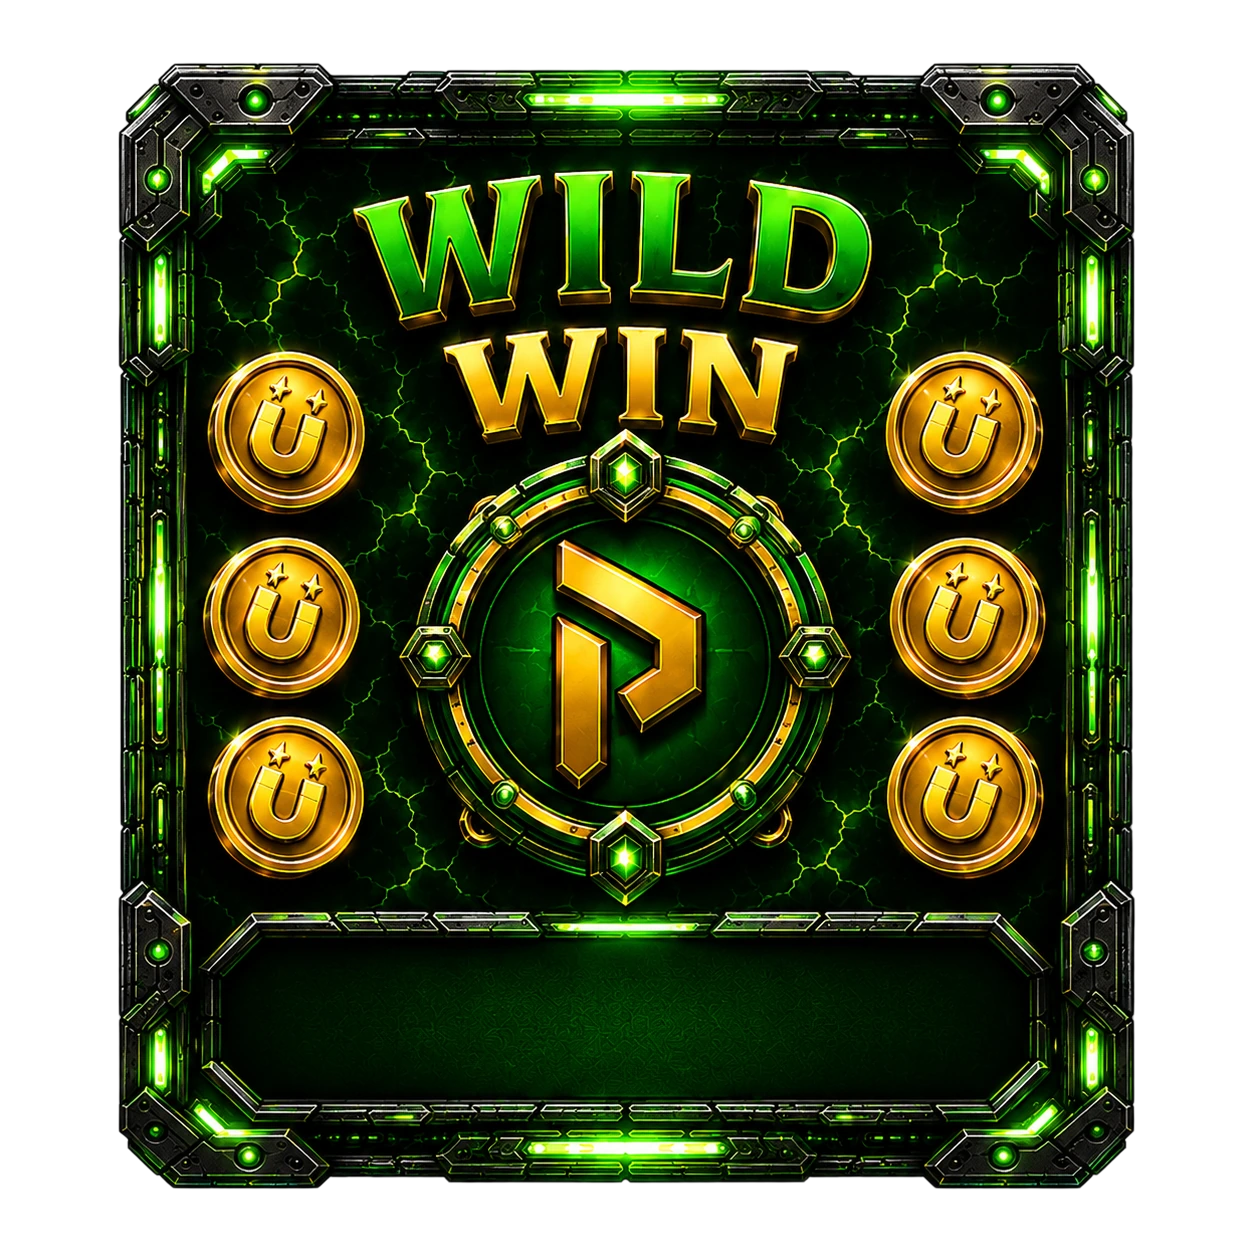
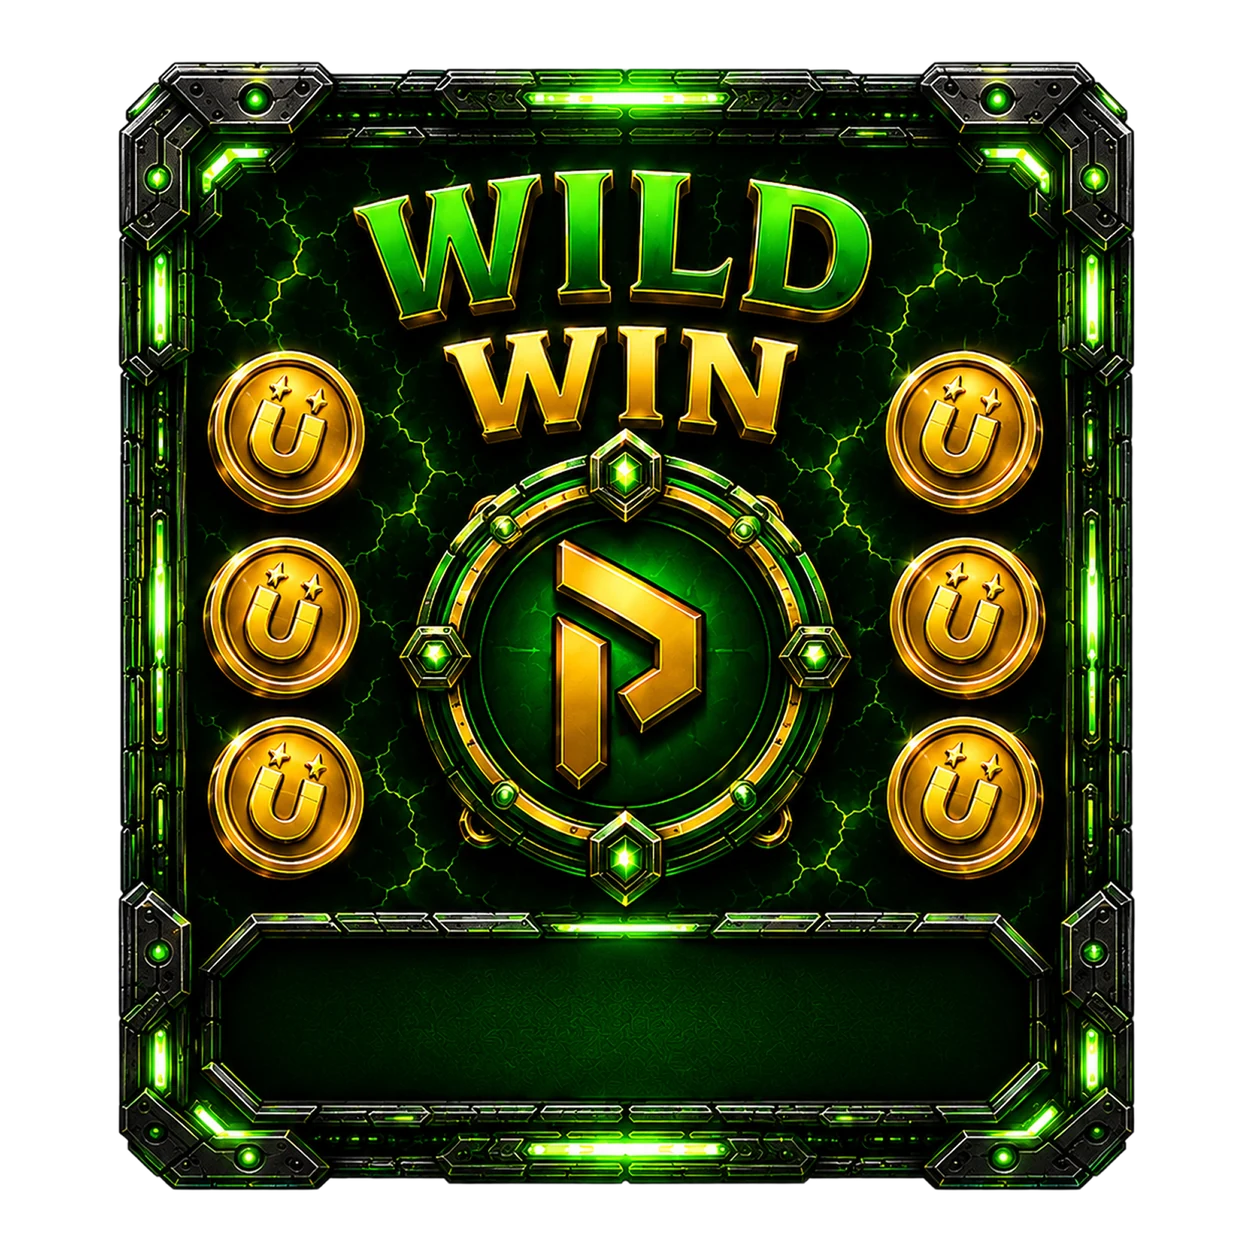
fix win screens

diff --git a/apps/magnetic/src/components/Win.svelte b/apps/magnetic/src/components/Win.svelte
@@ -23,11 +23,24 @@
 
 	const context = getContext();
 
+	// How long a tiered win board lingers after its amount has finished counting up before it
+	// closes itself. The board used to wait for a press indefinitely, which stalled an unattended
+	// autoplay run on every big win. Armed only once the counting has SETTLED, so the final number
+	// is always fully readable first; a press still dismisses immediately.
+	const AUTO_DISMISS_MS = 3500;
+
+	// Turbo COMPRESSES the big-win presentation rather than skipping it — the board is the payoff
+	// moment, so it still plays, just at the pace turbo implies. Both halves scale by the same
+	// factor so the rhythm holds: the roll-up (presentDuration) and the dwell before auto-dismiss.
+	// A legendary win goes 5.5s + 3.5s = 9s -> 4.5s on turbo -> 2.7s on super turbo.
+	const turboSpeed = $derived(stateBet.isSuperTurbo ? 0.3 : stateBet.isTurbo ? 0.5 : 1);
+
 	let show = $state(false);
 	let amount = $state(0);
 	let winLevelData = $state<WinLevelData>();
 	let oncomplete = $state(() => {});
 	let boardClickHandled = false;
+	let dismissTimer = 0;
 	let isCountingUp = $state(false);
 	let shakeX = $state(0);
 	let shakeY = $state(0);
@@ -37,10 +50,34 @@
 	const boardLayout = $derived(context.stateGameDerived.boardLayout());
 	const mainLayout = $derived(context.stateLayoutDerived.mainLayout());
 
+	const clearDismissTimer = () => {
+		if (!dismissTimer) return;
+		clearTimeout(dismissTimer);
+		dismissTimer = 0;
+	};
+
+	// Single dismissal path for both the auto-dismiss timer and press-to-continue, so whichever
+	// fires first wins and the other is a no-op (`boardClickHandled` is reset per win).
+	const dismiss = () => {
+		clearDismissTimer();
+		if (boardClickHandled) return;
+		boardClickHandled = true;
+		oncomplete();
+	};
+
+	const scheduleAutoDismiss = () => {
+		clearDismissTimer();
+		dismissTimer = setTimeout(dismiss, AUTO_DISMISS_MS * turboSpeed) as unknown as number;
+	};
+
 	context.eventEmitter.subscribeOnMount({
 		winShow: () => (show = true),
-		winHide: () => (show = false),
+		winHide: () => {
+			show = false;
+			clearDismissTimer();
+		},
 		winUpdate: async (emitterEvent) => {
+			clearDismissTimer();
 			boardClickHandled = false;
 			amount = emitterEvent.amount;
 			winLevelData = emitterEvent.winLevelData;
@@ -49,6 +86,9 @@
 			isCountingUp = false;
 		},
 	});
+
+	// A pending timer would otherwise resolve a stale `oncomplete` after teardown.
+	$effect(() => clearDismissTimer);
 
 	// Continuous board shake — the popup never sits still: a low rumble the whole time it's up
 	// plus a sharp "electric jolt" every ~1.35s in a pseudo-random direction. Stronger while the
@@ -105,17 +145,22 @@
 	{#if winLevelData}
 		{@const isBigWin = winLevelData.type === 'big'}
 		{@const hasBoardAnimation = !!winLevelData?.animation}
+		<!-- Line wins (no board) collapse to a near-instant 400ms on turbo as before; board wins
+		     scale by turboSpeed, which is 1 when turbo is off — so the normal pace is unchanged. -->
 		{@const duration =
 			(stateBet.isTurbo || stateBet.isSuperTurbo) && !hasBoardAnimation
 				? Math.min(winLevelData.presentDuration, 400)
-				: winLevelData.presentDuration}
+				: winLevelData.presentDuration * turboSpeed}
 		{#key oncomplete}
 			<WinCountUpProvider
 				{amount}
 				{duration}
 				oncomplete={() => {
 					context.eventEmitter.broadcast({ type: 'soundStop', name: 'mag_win_001' });
-					if (!hasBoardAnimation) oncomplete();
+					// Fires when the roll-up finishes naturally AND when a press snaps it to the
+					// final value — either way the counting is over, so the dwell starts here.
+					if (hasBoardAnimation) scheduleAutoDismiss();
+					else oncomplete();
 				}}
 			>
 				{#snippet children({ countUpAmount, startCountUp, finishCountUp, countUpCompleted })}
@@ -179,13 +224,8 @@
 
 					<PressToContinue
 						onpress={() => {
-							if (!countUpCompleted) {
-								finishCountUp();
-							} else {
-								if (boardClickHandled) return;
-								boardClickHandled = true;
-								oncomplete();
-							}
+							if (!countUpCompleted) finishCountUp();
+							else dismiss();
 						}}
 					/>
 				{/snippet}

diff --git a/apps/magnetic/src/components/WinBoard.svelte b/apps/magnetic/src/components/WinBoard.svelte
@@ -36,20 +36,29 @@
 		maxOffY: number;
 	} = $props();
 
-	// Vertical centre of each board art's amount plaque, as a fraction of boardSize measured DOWN
-	// from the board centre — measured per art (the plaques sit at slightly different heights).
-	// Offset of the amount from the sprite centre, as a fraction of the sprite height. Each value is
-	// the MEASURED vertical centre of that art's dark plaque bay (the flat region between the top
-	// rail and the bottom ornament), not a hand-tuned guess — the bays do not sit at the same height
-	// across the six boards, so a single shared value leaves the amount high on some and low on
-	// others. Re-measure with scratchpad/bay.py if the art changes.
-	const TIER_TEXT_Y: Record<string, number> = {
-		sweetWinBoard: 0.324,
-		wildWinBoard: 0.313,
-		epicWinBoard: 0.379,
-		mythicWinBoard: 0.362,
-		legendaryWinBoard: 0.364,
+	// The amount plaque BAY of each board art — the flat dark region between the plaque's top rail
+	// and its bottom ornament — as fractions of the sprite box: `cy` is the bay's vertical centre
+	// measured DOWN from the sprite centre, `w`/`h` its extents. All MEASURED off the art (rows and
+	// columns whose 95th-percentile luminance stays low between the two bright rails), not hand
+	// tuned: the bays sit at different heights AND are different sizes across the boards, so a
+	// single shared value leaves the amount off-centre on some and undersized on all of them.
+	//
+	// The amount is sized FROM the bay rather than from a shared fraction of boardSize. The old
+	// shared 0.077 filled barely 60% of the shortest bay and less than half of the tallest, which
+	// left every board looking like it had an empty slot under the medallion.
+	const TIER_BAY: Record<string, { cy: number; w: number; h: number }> = {
+		sweetWinBoard: { cy: 0.324, w: 0.607, h: 0.126 },
+		wildWinBoard: { cy: 0.313, w: 0.608, h: 0.13 },
+		epicWinBoard: { cy: 0.379, w: 0.674, h: 0.104 },
+		mythicWinBoard: { cy: 0.361, w: 0.623, h: 0.108 },
+		legendaryWinBoard: { cy: 0.366, w: 0.631, h: 0.106 },
 	};
+	// Digits of IBM Plex Sans Condensed sit at cap height (~0.70 em), so a font size of ~1.0x the bay
+	// height fills roughly 70% of it — enough presence to read as the headline number with clear air
+	// above and below. The width cap insets slightly from the bay so the outline never touches the rails.
+	const BAY_FONT_K = 1.02;
+	const BAY_WIDTH_K = 0.94;
+	const DEFAULT_BAY = { cy: 0.37, w: 0.62, h: 0.11 };
 
 	// The 4 hex gems on the medallion ring of each board art (fractions of the sprite box,
 	// relative to the sprite centre, +y down) — measured per art; each gets a small pulsing
@@ -144,8 +153,9 @@
 		: displayedKey === 'mythicWinBoard' ? 0xa64dff
 		: 0xffb428 /* legendary + max win: gold */}
 	{@const fx = FRAME_FX[displayedKey] ?? { hx: 0.42, hy: 0.46, cy: 0 }}
-	{@const boardFont = isMax ? boardH * 0.062 : boardSize * 0.077}
-	{@const boardMaxW = isMax ? boardW * 0.4 : boardSize * 0.62}
+	{@const bay = TIER_BAY[displayedKey] ?? DEFAULT_BAY}
+	{@const boardFont = isMax ? boardH * 0.062 : boardSize * bay.h * BAY_FONT_K}
+	{@const boardMaxW = isMax ? boardW * 0.4 : boardSize * bay.w * BAY_WIDTH_K}
 	{@const fitScale = textSizes.width > boardMaxW ? boardMaxW / textSizes.width : 1}
 	<Container x={offX} y={offY} scale={pop.current}>
 		<!-- Soft ambient glow behind the board, tinted to the tier. -->
@@ -210,7 +220,7 @@
 		     bay between the top rail and the compass (the compass eats the bottom-centre). -->
 		<Container
 			x={isMax ? boardW * 0.015 : 0}
-			y={isMax ? boardH * 0.3005 : boardSize * (TIER_TEXT_Y[displayedKey] ?? 0.37)}
+			y={isMax ? boardH * 0.3005 : boardSize * bay.cy}
 			scale={fitScale}
 		>
 			<Text

diff --git a/apps/magnetic/src/game/assets.ts b/apps/magnetic/src/game/assets.ts
@@ -256,11 +256,11 @@ const assets = {
 	magnetWinTile: { type: 'sprite', src: './assets/components/ui/magnet_win.webp?v=20260709' },
 	squirrelWinTile: { type: 'sprite', src: './assets/components/symbols/magnetic/low/bolt_win.webp?v=20260709' },
 	// Win boards — preloaded so board escalation during count-up doesn't stall
-	sweetWinBoard:     { type: 'sprite', src: './assets/components/win_boards/sweet_win.webp?v=20260709' },
-	wildWinBoard:      { type: 'sprite', src: './assets/components/win_boards/big_win.webp?v=20260709' },
-	epicWinBoard:      { type: 'sprite', src: './assets/components/win_boards/epic_win.webp?v=20260728' },
-	mythicWinBoard:    { type: 'sprite', src: './assets/components/win_boards/mega_win.webp?v=20260709' },
-	legendaryWinBoard: { type: 'sprite', src: './assets/components/win_boards/max_win.webp?v=20260709' },
+	sweetWinBoard:     { type: 'sprite', src: './assets/components/win_boards/sweet_win.webp?v=20260730' },
+	wildWinBoard:      { type: 'sprite', src: './assets/components/win_boards/big_win.webp?v=20260730' },
+	epicWinBoard:      { type: 'sprite', src: './assets/components/win_boards/epic_win.webp?v=20260730' },
+	mythicWinBoard:    { type: 'sprite', src: './assets/components/win_boards/mega_win.webp?v=20260730' },
+	legendaryWinBoard: { type: 'sprite', src: './assets/components/win_boards/max_win.webp?v=20260730' },
 	// Special wide board for the 20000x max-win cap (Figma 4143-16513), 1535×1025
 	maxWinBoard:       { type: 'sprite', src: './assets/components/win_boards/max_win_screen.webp?v=20260709' },
 	goldFont: {

diff --git a/apps/magnetic/src/game/goldGradient.ts b/apps/magnetic/src/game/goldGradient.ts
@@ -31,7 +31,15 @@ export const ICON_STROKE_GRADIENT = new FillGradient({
 	textureSpace: 'local',
 });
 
-// Brighter win gradient: linear-gradient(182deg, #E2D981 17.62%, #FBC503 60.04%, #D98503 102.47%).
+// Win-amount gradient: linear-gradient(182deg, #E2D981 17.62%, #FBC503 60.04%, #D98503 102.47%).
+// 182deg ≈ vertical (top → bottom); the 2° tilt is sub-pixel across a text run, so it is dropped.
+//
+// The final stop sits at 102.47%, PAST the end of the gradient box — CSS never actually paints
+// #D98503, it stops at whatever the ramp has reached by 100%. Pinning #D98503 to offset 1 (what
+// this used to do) therefore over-darkened the bottom of every glyph. #DB8903 is the interpolated
+// colour at 100%: 94.18% of the way from #FBC503 (60.04%) to #D98503 (102.47%).
+// Offsets below the first stop clamp to its colour in both CSS and FillGradient, so the flat
+// #E2D981 lead-in over 0–17.62% needs no explicit stop.
 export const WIN_GRADIENT = new FillGradient({
 	type: 'linear',
 	start: { x: 0.5, y: 0 },
@@ -39,7 +47,7 @@ export const WIN_GRADIENT = new FillGradient({
 	colorStops: [
 		{ offset: 0.1762, color: 0xe2d981 },
 		{ offset: 0.6004, color: 0xfbc503 },
-		{ offset: 1.0, color: 0xd98503 },
+		{ offset: 1.0, color: 0xdb8903 },
 	],
 	textureSpace: 'local',
 });

diff --git a/apps/magnetic/scripts/measure-win-board-bay.py b/apps/magnetic/scripts/measure-win-board-bay.py
@@ -1,0 +1,82 @@
+#!/usr/bin/env python3
+"""Measure the amount-plaque BAY of each win board art.
+
+The bay is the flat dark region between the plaque's bright top rail and its bottom
+ornament — the slot the win amount sits in. WinBoard.svelte drives BOTH the amount's
+position and its font size from these numbers (TIER_BAY), so re-run this whenever the
+board art is re-exported and paste the output into that table.
+
+Detection: within the lower half of the art, find the longest contiguous run of rows
+whose 95th-percentile luminance (over the central 36% of the width) stays below the
+rail threshold. Percentile rather than mean because the bay carries a faint texture
+and a coloured wash — only the metal rails are actually bright.
+
+    python3 scripts/measure-win-board-bay.py static/assets/components/win_boards/*.webp
+"""
+
+import sys
+
+import numpy as np
+from PIL import Image
+
+Image.MAX_IMAGE_PIXELS = None
+
+RAIL_LUMA = 90  # above this the row/column is plaque frame, not bay
+
+
+def measure(path):
+    im = Image.open(path).convert('RGBA')
+    W, H = im.size
+    a = np.asarray(im)
+    alpha = a[..., 3] / 255.0
+    rgb = a[..., :3].astype(np.float32)
+    lum = (0.299 * rgb[..., 0] + 0.587 * rgb[..., 1] + 0.114 * rgb[..., 2]) * alpha
+
+    solid = alpha > 0.5
+    cols_any, rows_any = solid.any(axis=0), solid.any(axis=1)
+    x0, x1 = np.argmax(cols_any), W - 1 - np.argmax(cols_any[::-1])
+    y0, y1 = np.argmax(rows_any), H - 1 - np.argmax(rows_any[::-1])
+
+    p95 = np.percentile(lum[:, int(W * 0.32):int(W * 0.68)], 95, axis=1)
+    dark = [y for y in range(int(H * 0.58), int(H * 0.97)) if p95[y] < RAIL_LUMA]
+    if not dark:
+        return None
+    runs, cur = [], [dark[0]]
+    for y in dark[1:]:
+        if y == cur[-1] + 1:
+            cur.append(y)
+        else:
+            runs.append(cur)
+            cur = [y]
+    runs.append(cur)
+    run = max(runs, key=len)
+    by0, by1 = run[0], run[-1]
+
+    # Horizontal extent: columns that stay below the rail threshold across the bay rows.
+    cp95 = np.percentile(lum[by0:by1 + 1, :], 95, axis=0)
+    cx = (x0 + x1) // 2
+    bx0, bx1 = cx, cx
+    while bx0 > x0 and cp95[bx0 - 1] < RAIL_LUMA:
+        bx0 -= 1
+    while bx1 < x1 and cp95[bx1 + 1] < RAIL_LUMA:
+        bx1 += 1
+
+    return dict(
+        cy=((by0 + by1) / 2 - H / 2) / H,
+        w=(bx1 - bx0 + 1) / W,
+        h=(by1 - by0 + 1) / H,
+    )
+
+
+def main(paths):
+    for p in paths:
+        m = measure(p)
+        name = p.rsplit('/', 1)[-1]
+        if m is None:
+            print(f'{name}: NO BAY FOUND')
+            continue
+        print(f"{name}: {{ cy: {m['cy']:.3f}, w: {m['w']:.3f}, h: {m['h']:.3f} }}")
+
+
+if __name__ == '__main__':
+    main(sys.argv[1:] or sys.exit(__doc__))
